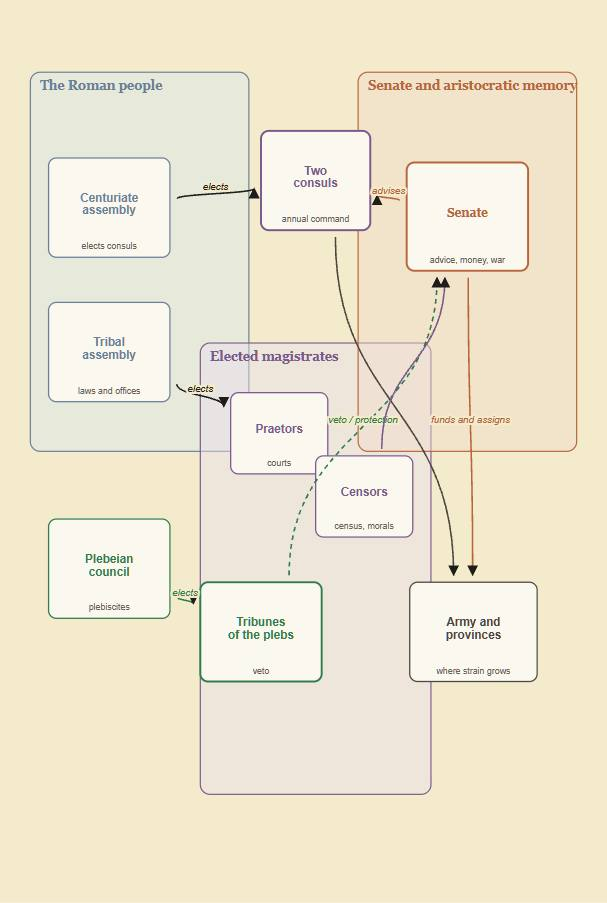
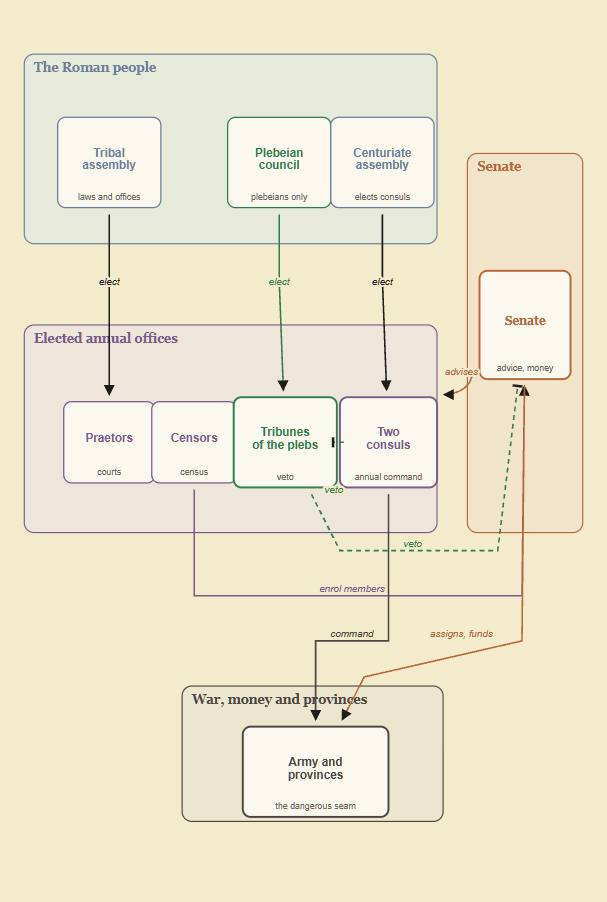
Refine Roman atlas plates
Copilot-Session: 37f2f47f-8b63-49cd-b8ce-cded564ac449

Changed region(s): [[0.0297, 0.0621, 0.9786, 0.9313]]

diff --git a/atlas/plates/rome-growth-small-multiples.js b/atlas/plates/rome-growth-small-multiples.js
@@ -1,27 +1,45 @@
-// Rome's growth as small multiples: one projection, four dated panels.
+// Rome's growth as small multiples: one Mediterranean projection, four dated panels.
 (function () {
-  const R = "#d66a4a", CORE = "#b9472f", ALLY = "#e6a45b", CONQ = "#c77b54", SEA = "#2f6a95";
-  const EXT = [[-12, 24], [48, 56]];
-  const ROME = [12.496, 41.902], CARTHAGE = [10.31, 36.85], ANTIOCH = [36.2, 36.2], ALEX = [29.92, 31.20], BYZ = [28.98, 41.01];
-  const italy = [[9.2, 44.2], [12.5, 43.7], [14.2, 41.0], [16.2, 40.0], [17.2, 40.5], [15.0, 42.5], [12.7, 42.8], [12.0, 41.8]];
-  const sicily = [[12.5, 38.0], [14.0, 38.2], [15.3, 37.3], [13.5, 36.8]];
-  const sardiniaCorsica = [[8.7, 41.8], [9.4, 40.1], [9.0, 39.1], [8.4, 40.7]];
-  const spainEast = [[-3.0, 42.5], [-1.0, 41.2], [-0.5, 39.5], [-1.2, 37.8], [-4.5, 36.7], [-5.2, 39.0]];
-  const spainAll = [[-8.8, 43.0], [-1.5, 42.5], [1.0, 40.0], [-1.2, 37.0], [-6.5, 36.3], [-8.7, 39.5]];
-  const africa = [[8.5, 37.0], [11.0, 36.8], [13.5, 35.8], [16.0, 34.5], [14.0, 33.2], [10.0, 34.2]];
-  const greece = [[19.0, 41.0], [22.5, 40.2], [24.5, 38.8], [23.0, 37.2], [20.0, 38.0]];
-  const asia = [[26.0, 40.5], [29.0, 40.0], [31.0, 38.3], [30.0, 36.5], [27.0, 37.0], [25.8, 39.0]];
-  const gaul = [[-1.0, 51.0], [3.5, 50.5], [7.7, 48.3], [7.0, 44.0], [3.5, 43.0], [0.0, 44.5], [-3.0, 47.5]];
-  const illyricum = [[13.0, 45.5], [17.0, 45.0], [19.5, 43.0], [18.0, 41.0], [14.5, 42.5]];
-  const syria = [[34.5, 37.0], [38.0, 36.5], [39.5, 34.0], [37.0, 32.0], [35.0, 33.5]];
-  const egypt = [[29.0, 31.5], [32.5, 31.0], [33.0, 29.0], [31.0, 27.5], [29.0, 29.0]];
-  const britain = [[-4.7, 55.2], [-1.0, 54.8], [0.5, 52.2], [-1.0, 50.5], [-4.3, 51.5]];
-  const danube = [[14.0, 48.2], [19.0, 47.2], [25.5, 45.0], [28.0, 44.0], [23.5, 43.3], [18.0, 44.5]];
-  const dacia = [[22.5, 44.0], [24.8, 46.5], [27.6, 46.6], [27.8, 44.5], [25.0, 43.6]];
-  const east117 = [[31.0, 40.0], [36.0, 39.0], [43.0, 37.5], [45.0, 33.5], [41.0, 31.5], [36.0, 34.0], [33.0, 36.0]];
-  const area = (id, polygon, colour, legend, extra = {}) => Object.assign({ id, type: "area", polygon, colour, opacity: 0.46, clipToLand: true, legend }, extra);
+  const HELD = "#e7a98f", NEW = "#c85038", CLIENT = "#f0bd6b", RIVAL = "#4f7f9f";
+  const EXT = [[-11.5, 27.5], [43.5, 47.5]];
+  const ROME = [12.496, 41.902], CARTHAGE = [10.31, 36.85], ALEX = [29.92, 31.20];
+  const area = (id, polygon, colour, legend, extra = {}) => Object.assign({ id, type: "area", polygon, colour, opacity: 0.52, clipToLand: true, legend }, extra);
+  const held = (id, polygon) => area(id, polygon, HELD, "Already Roman", { opacity: 0.36 });
+  const added = (id, polygon) => area(id, polygon, NEW, "Added since previous panel", { opacity: 0.62 });
+  const client = (id, polygon) => area(id, polygon, CLIENT, "Client or dependent realm", { pattern: "hatch", opacity: 0.78 });
+  const rival = (id, polygon) => area(id, polygon, RIVAL, "Carthaginian power, 264 BC", { pattern: "hatch", opacity: 0.60 });
   const city = (id, at, name, labelPos = "e") => ({ id, type: "point", symbol: id === "rome" ? "capital" : "large-city", at, name, labelPos });
-  const common = [city("rome", ROME, "Rome", "e")];
+
+  const italy = [[9.2,44.0],[11.8,44.2],[13.6,43.4],[14.4,42.0],[15.6,41.1],[17.2,40.2],[16.4,39.0],[15.5,38.0],[13.2,40.1],[12.0,41.2],[10.7,42.3]];
+  const sicily = [[12.2,38.4],[13.7,38.4],[15.5,37.4],[14.0,36.6],[12.4,37.1]];
+  const sardinia = [[8.1,41.4],[9.7,41.3],[9.9,39.0],[8.3,38.7]];
+  const corsica = [[8.5,43.1],[9.7,43.1],[9.6,41.6],[8.6,41.5]];
+  const africaProv = [[8.0,37.2],[11.5,37.0],[12.3,35.7],[10.0,34.4],[8.2,35.2]];
+  const africaCoast = [[-6.5,35.8],[-2.5,36.2],[2.0,36.8],[8.0,37.2],[14.5,36.3],[20.5,33.8],[25.5,32.2],[31.8,31.7],[33.5,29.8],[29.5,28.6],[20.0,30.0],[10.0,32.6],[2.0,34.1],[-5.5,34.5]];
+  const eastSpain = [[-1.8,42.7],[1.5,41.1],[0.2,38.5],[-1.2,37.3],[-4.0,37.1],[-5.1,39.1],[-3.6,41.0]];
+  const southSpain = [[-7.8,38.4],[-4.0,38.7],[-1.2,37.3],[-2.8,36.3],[-6.4,36.0],[-8.5,36.8]];
+  const allSpain = [[-9.5,43.3],[-1.4,42.9],[2.4,41.0],[0.0,38.3],[-3.8,36.1],[-8.8,36.3],[-9.8,39.5]];
+  const cisalpine = [[7.5,45.2],[10.5,45.5],[13.5,45.0],[13.6,43.8],[10.0,43.8],[7.8,44.3]];
+  const macedonAchaea = [[19.0,41.8],[22.5,41.4],[24.5,39.7],[24.1,37.4],[21.5,36.7],[19.2,38.5]];
+  const asiaPergamum = [[25.7,40.7],[29.5,40.5],[31.4,38.8],[30.5,36.6],[27.0,36.5],[25.2,38.6]];
+  const narbonensis = [[1.8,44.6],[6.9,44.6],[7.6,43.4],[5.0,42.6],[2.4,43.0]];
+  const gaul = [[-4.8,50.6],[1.5,51.1],[7.6,49.2],[7.7,44.1],[4.5,43.0],[-1.5,43.6],[-4.7,46.7]];
+  const illyricum = [[13.2,45.6],[18.2,45.2],[20.4,43.0],[19.2,41.0],[15.3,42.0],[13.4,44.0]];
+  const bithynia = [[29.2,41.5],[32.4,41.3],[32.4,39.8],[29.0,39.5]];
+  const cilicia = [[31.0,37.2],[35.2,37.0],[36.5,35.5],[33.0,35.2]];
+  const syria = [[34.5,36.8],[38.9,36.2],[39.4,32.2],[35.2,31.3],[34.2,33.6]];
+  const cyrenaica = [[19.0,33.0],[24.3,32.5],[24.5,30.0],[20.0,29.5],[18.5,31.0]];
+  const egypt = [[28.8,31.7],[32.8,31.5],[33.4,29.2],[31.2,27.8],[29.0,29.0]];
+  const balkansDanube = [[13.0,46.4],[20.0,46.2],[28.6,44.9],[29.2,42.8],[22.2,41.3],[17.0,42.2],[13.4,44.0]];
+  const anatolia = [[25.5,41.3],[32.0,41.2],[36.5,39.6],[36.6,36.4],[31.6,35.9],[26.4,36.7],[24.8,39.0]];
+  const judaeaArabia = [[34.4,32.5],[37.8,32.0],[39.8,29.5],[37.5,27.6],[34.6,29.5]];
+  const britain = [[-5.2,55.1],[-0.6,54.9],[1.2,52.0],[-1.0,50.5],[-4.8,51.2]];
+  const dacia = [[22.2,44.1],[24.7,46.6],[27.8,46.7],[28.2,44.6],[25.4,43.5]];
+  const mesopotamia = [[36.0,38.0],[42.8,37.5],[43.0,33.4],[39.2,31.4],[36.0,34.0]];
+  const punicAfrica = [[-2.0,36.0],[3.5,36.7],[10.8,37.1],[13.0,35.7],[10.0,33.9],[4.0,34.2],[-1.8,34.8]];
+  const punicIberia = [[-6.8,38.2],[-1.0,38.5],[0.0,37.0],[-3.5,36.0],[-6.8,36.2]];
+  const westSicily = [[12.0,38.3],[13.4,38.2],[13.3,37.0],[12.2,37.0]];
+
   window.PLATES["rome-growth-small-multiples"] = {
     id: "rome-growth-small-multiples",
     title: "Rome's growth from city-state to empire",
@@ -29,53 +47,35 @@
     folio: "13",
     viewer: "ancient/-0050/ch-rome",
     figures: [
-      { kind: "small-multiples", caption: "The same Mediterranean frame at four dates", share: 1, extent: EXT, projection: "mercator", columns: 2, panelAspect: 0.9,
-        legend: { position: "bottom-left", columns: 2 }, layers: common,
+      { kind: "small-multiples", caption: "A Mediterranean empire, panel by panel", share: 1, extent: EXT, projection: "mercator", columns: 2, panelAspect: 1.25,
+        legend: { position: "bottom-left", columns: 2 }, layers: [city("rome", ROME, "Rome", "e")],
         panels: [
           { caption: "264 BC", layers: [
-            area("it-264", italy, CORE, "Roman citizen land and allies", { pattern: "hatch", opacity: 0.55 }),
-            area("sicily-264", sicily, ALLY, "War zone and allied cities", { pattern: "dots", opacity: 0.5 }),
+            added("it-264", italy),
+            rival("punic-africa-264", punicAfrica), rival("punic-sardinia-264", sardinia), rival("punic-corsica-264", corsica), rival("punic-sicily-264", westSicily), rival("punic-spain-264", punicIberia),
             city("carthage-264", CARTHAGE, "Carthage", "w")
           ] },
           { caption: "133 BC", layers: [
-            area("it-133", italy, CORE, "Old Roman-Italian core", { opacity: 0.62 }),
-            area("sicily-133", sicily, CONQ, "First overseas provinces", { pattern: "hatch" }),
-            area("sardinia-133", sardiniaCorsica, CONQ, "First overseas provinces", { pattern: "hatch" }),
-            area("spain-133", spainEast, CONQ, "Provinces and client zones", { pattern: "stripe" }),
-            area("africa-133", africa, CONQ, "Provinces and client zones", { pattern: "stripe" }),
-            area("greece-133", greece, CONQ, "Provinces and client zones", { pattern: "stripe" }),
-            area("asia-133", asia, ALLY, "Pergamum bequest, 133 BC", { pattern: "dots" })
+            held("it-133", italy),
+            added("sicily-133", sicily), added("sardinia-133", sardinia), added("corsica-133", corsica), added("citerior-133", eastSpain), added("ulterior-133", southSpain), added("africa-133", africaProv), added("cisalpine-133", cisalpine), added("macedonia-achaea-133", macedonAchaea), added("asia-133", asiaPergamum)
           ] },
           { caption: "44 BC", layers: [
-            area("italy-44", italy, CORE, "Italy and older provinces", { opacity: 0.62 }),
-            area("spain-44", spainAll, CONQ, "Republican provinces", { pattern: "hatch" }),
-            area("gaul-44", gaul, R, "Caesar's conquest of Gaul", { pattern: "stripe", opacity: 0.54 }),
-            area("illyricum-44", illyricum, CONQ, "Republican provinces", { pattern: "hatch" }),
-            area("greece-44", greece, CONQ, "Republican provinces", { pattern: "hatch" }),
-            area("asia-44", asia, CONQ, "Republican provinces", { pattern: "hatch" }),
-            area("syria-44", syria, CONQ, "Eastern provinces", { pattern: "hatch" }),
-            area("africa-44", africa, CONQ, "Republican provinces", { pattern: "hatch" }),
-            city("alex-44", ALEX, "Alexandria", "w")
+            held("it-44", italy), held("islands-44a", sicily), held("islands-44b", sardinia), held("islands-44c", corsica), held("spain-old-44a", eastSpain), held("spain-old-44b", southSpain), held("africa-old-44", africaProv), held("cisalpine-44", cisalpine), held("greece-old-44", macedonAchaea), held("asia-old-44", asiaPergamum),
+            added("narbonensis-44", narbonensis), added("gaul-44", gaul), added("illyricum-44", illyricum), added("bithynia-44", bithynia), added("cilicia-44", cilicia), added("syria-44", syria), added("cyrenaica-44", cyrenaica),
+            client("egypt-client-44", egypt), city("alexandria-44", ALEX, "Alexandria", "w")
           ] },
           { caption: "AD 117", layers: [
-            area("empire-117-west", [...spainAll, ...gaul, ...italy], R, "Empire under Trajan", { opacity: 0.42 }),
-            area("britain-117", britain, R, "Empire under Trajan", { opacity: 0.42 }),
-            area("africa-117", africa, R, "Empire under Trajan", { opacity: 0.42 }),
-            area("danube-117", danube, R, "Empire under Trajan", { opacity: 0.42 }),
-            area("dacia-117", dacia, ALLY, "Recent conquests", { pattern: "stripe" }),
-            area("east-117", east117, ALLY, "Recent conquests", { pattern: "stripe" }),
-            area("egypt-117", egypt, R, "Empire under Trajan", { opacity: 0.42 }),
-            { id: "byzantium-117", type: "point", symbol: "large-city", at: BYZ },
-            { id: "antioch-117", type: "point", symbol: "large-city", at: ANTIOCH }
+            held("spain-117", allSpain), held("gaul-117", gaul), held("narbonensis-117", narbonensis), held("italy-117", italy), held("sicily-117", sicily), held("sardinia-117", sardinia), held("corsica-117", corsica), held("africa-117", africaCoast), held("balkans-117", balkansDanube), held("greece-117", macedonAchaea), held("anatolia-117", anatolia), held("syria-117", syria), held("judaea-arabia-117", judaeaArabia), held("egypt-117", egypt),
+            added("britain-117", britain), added("dacia-117", dacia), added("mesopotamia-117", mesopotamia)
           ] }
         ] }
     ],
-    text: { intro: "Small multiples keep the coastline and scale steady, so the eye sees change rather than a new map each time. Rome starts as an Italian power, then adds islands, provinces, Gaul, Egypt and the frontier arc of the high empire.", sections: [
+    text: { intro: "Small multiples keep the coastline and scale steady, so the eye sees change rather than a new map each time. Pale red is what Rome already held; dark red is what is new since the previous panel.", sections: [
       { heading: "Four steps", entries: [
-        { date: "264 BC", text: "On the eve of the Punic Wars, Rome controlled Italy through citizen land, colonies and allies, but the sea still belonged to older powers such as Carthage.", refs: ["it-264", "sicily-264", "carthage-264", "rome"] },
-        { date: "133 BC", text: "Victories over Carthage and the Hellenistic kingdoms turned Sicily, Sardinia-Corsica, Spain, Africa, Macedonia-Greece and Asia into provincial problems.", refs: ["it-133", "sicily-133", "sardinia-133", "spain-133", "africa-133", "greece-133", "asia-133"] },
-        { date: "44 BC", text: "By Caesar's death the Republic held a Mediterranean ring, including Gaul and Syria. The scale of command helped break republican politics.", refs: ["italy-44", "spain-44", "gaul-44", "illyricum-44", "greece-44", "asia-44", "syria-44", "africa-44", "alex-44"] },
-        { date: "AD 117", text: "Trajan's reign shows the empire at its widest: Britain, the Rhine-Danube frontier, Dacia, Egypt and the temporary eastern conquests all in one system.", refs: ["empire-117-west", "britain-117", "africa-117", "danube-117", "dacia-117", "east-117", "egypt-117", "byzantium-117", "antioch-117"] }
+        { date: "264 BC", text: "Rome controls peninsular Italy south of the Arno-Rubicon line. Carthage is the rival sea power, with territory on the North African coast, western Sicily, Sardinia-Corsica and the southern Spanish coast.", refs: ["it-264", "punic-africa-264", "punic-sardinia-264", "punic-corsica-264", "punic-sicily-264", "punic-spain-264", "rome", "carthage-264"] },
+        { date: "133 BC", text: "After the Punic and Macedonian wars, Rome has Sicily, Sardinia-Corsica, Hispania Citerior and Ulterior, Africa, Cisalpine Gaul, Macedonia-Achaea and Asia from Pergamum.", refs: ["it-133", "sicily-133", "sardinia-133", "corsica-133", "citerior-133", "ulterior-133", "africa-133", "cisalpine-133", "macedonia-achaea-133", "asia-133"] },
+        { date: "44 BC", text: "By Caesar's death, older provinces surround the western and central Mediterranean. Newer republican gains add Narbonensis, all Gaul, Illyricum, Bithynia, Cilicia, Syria and Cyrenaica, while Egypt remains a dependent kingdom.", refs: ["it-44", "islands-44a", "islands-44b", "islands-44c", "spain-old-44a", "spain-old-44b", "africa-old-44", "cisalpine-44", "greece-old-44", "asia-old-44", "narbonensis-44", "gaul-44", "illyricum-44", "bithynia-44", "cilicia-44", "syria-44", "cyrenaica-44", "egypt-client-44", "alexandria-44"] },
+        { date: "AD 117", text: "At Trajan's peak, the empire rings the Mediterranean: Spain, Gaul, Italy, the islands, North Africa from Morocco to Egypt, Greece, the Balkans, Anatolia, Syria and Judaea. Britain, Dacia and Mesopotamia mark the outer push.", refs: ["spain-117", "gaul-117", "narbonensis-117", "italy-117", "sicily-117", "sardinia-117", "corsica-117", "africa-117", "balkans-117", "greece-117", "anatolia-117", "syria-117", "judaea-arabia-117", "egypt-117", "britain-117", "dacia-117", "mesopotamia-117"] }
       ] }
     ] },
     sources: ["Conventional Roman territorial chronology; shapes are atlas-style approximations", "Coastlines and rivers: Natural Earth 1:50m"]

diff --git a/atlas/plates/roman-republic-constitution.js b/atlas/plates/roman-republic-constitution.js
@@ -10,42 +10,45 @@
     figures: [
       { kind: "diagram", caption: "Offices, assemblies and vetoes in the middle Republic", share: 1, diagram: {
         compartments: [
-          { id: "people-frame", label: "The Roman people", x: 0.05, y: 0.08, w: 0.36, h: 0.42, colour: POP, fill: "#dbe7ef" },
-          { id: "magistrate-frame", label: "Elected magistrates", x: 0.33, y: 0.38, w: 0.38, h: 0.50, colour: MAG, fill: "#e9dfef" },
-          { id: "senate-frame", label: "Senate and aristocratic memory", x: 0.59, y: 0.08, w: 0.36, h: 0.42, colour: SEN, fill: "#f0dccb" }
+          { id: "people-frame", label: "The Roman people", x: 0.04, y: 0.06, w: 0.68, h: 0.21, colour: POP, fill: "#dbe7ef" },
+          { id: "magistrate-frame", label: "Elected annual offices", x: 0.04, y: 0.36, w: 0.68, h: 0.23, colour: MAG, fill: "#e9dfef" },
+          { id: "senate-frame", label: "Senate", x: 0.77, y: 0.17, w: 0.19, h: 0.42, colour: SEN, fill: "#f0dccb" },
+          { id: "province-frame", label: "War, money and provinces", x: 0.30, y: 0.76, w: 0.43, h: 0.15, colour: ARMY, fill: "#e6e0d6" }
         ],
         nodes: [
-          { id: "centuriate", label: "Centuriate\nassembly", x: 0.18, y: 0.23, w: 0.20, h: 0.11, colour: POP, note: "elects consuls" },
-          { id: "tribal", label: "Tribal\nassembly", x: 0.18, y: 0.39, w: 0.20, h: 0.11, colour: POP, note: "laws and offices" },
-          { id: "plebeian", label: "Plebeian\ncouncil", x: 0.18, y: 0.63, w: 0.20, h: 0.11, colour: TR, note: "plebiscites" },
-          { id: "consuls", label: "Two\nconsuls", x: 0.52, y: 0.20, w: 0.18, h: 0.11, colour: MAG, strong: true, note: "annual command" },
-          { id: "praetors", label: "Praetors", x: 0.46, y: 0.48, w: 0.16, h: 0.09, colour: MAG, note: "courts" },
-          { id: "censors", label: "Censors", x: 0.60, y: 0.55, w: 0.16, h: 0.09, colour: MAG, note: "census, morals" },
-          { id: "tribunes", label: "Tribunes\nof the plebs", x: 0.43, y: 0.70, w: 0.20, h: 0.11, colour: TR, strong: true, note: "veto" },
-          { id: "senate", label: "Senate", x: 0.77, y: 0.24, w: 0.20, h: 0.12, colour: SEN, strong: true, serif: true, note: "advice, money, war" },
-          { id: "army", label: "Army and\nprovinces", x: 0.78, y: 0.70, w: 0.21, h: 0.11, colour: ARMY, note: "where strain grows" }
+          { id: "tribal", label: "Tribal\nassembly", x: 0.18, y: 0.18, w: 0.17, h: 0.10, colour: POP, note: "laws and offices" },
+          { id: "plebeian", label: "Plebeian\ncouncil", x: 0.46, y: 0.18, w: 0.17, h: 0.10, colour: TR, note: "plebeians only" },
+          { id: "centuriate", label: "Centuriate\nassembly", x: 0.63, y: 0.18, w: 0.17, h: 0.10, colour: POP, note: "elects consuls" },
+          { id: "praetors", label: "Praetors", x: 0.18, y: 0.49, w: 0.15, h: 0.09, colour: MAG, note: "courts" },
+          { id: "censors", label: "Censors", x: 0.32, y: 0.49, w: 0.14, h: 0.09, colour: MAG, note: "census" },
+          { id: "tribunes", label: "Tribunes\nof the plebs", x: 0.47, y: 0.49, w: 0.17, h: 0.10, colour: TR, strong: true, note: "veto" },
+          { id: "consuls", label: "Two\nconsuls", x: 0.64, y: 0.49, w: 0.16, h: 0.10, colour: MAG, strong: true, note: "annual command" },
+          { id: "senate", label: "Senate", x: 0.865, y: 0.36, w: 0.15, h: 0.12, colour: SEN, strong: true, serif: true, note: "advice, money" },
+          { id: "army", label: "Army and\nprovinces", x: 0.52, y: 0.855, w: 0.24, h: 0.10, colour: ARMY, strong: true, note: "the dangerous seam" }
         ],
         arrows: [
-          { id: "elect-consuls", from: "centuriate", to: "consuls", label: "elects" },
-          { id: "elect-praetors", from: "tribal", to: "praetors", label: "elects" },
-          { id: "elect-tribunes", from: "plebeian", to: "tribunes", label: "elects", colour: TR },
-          { id: "senate-advises", from: "senate", to: "consuls", label: "advises", colour: SEN },
-          { id: "money-war", from: "senate", to: "army", label: "funds and assigns", colour: SEN },
-          { id: "commands-army", from: "consuls", to: "army", colour: ARMY },
-          { id: "veto", from: "tribunes", to: "senate", label: "veto / protection", colour: TR, dashed: true },
-          { id: "censors-senate", from: "censors", to: "senate", colour: MAG }
+          { id: "elect-praetors", from: "tribal", to: "praetors", label: "elect", via: [[0.18,0.31]], labelAt: [0.18,0.32] },
+          { id: "elect-tribunes", from: "plebeian", to: "tribunes", label: "elect", colour: TR, via: [[0.46,0.31]], labelAt: [0.46,0.32] },
+          { id: "elect-consuls", from: "centuriate", to: "consuls", label: "elect", via: [[0.63,0.31]], labelAt: [0.63,0.32] },
+          { id: "senate-advises", from: "senate", to: "consuls", label: "advises", colour: SEN, labelAt: [0.76,0.42] },
+          { id: "veto-consuls", from: "tribunes", to: "consuls", label: "veto", colour: TR, dashed: true, end: "bar", labelAt: [0.55,0.55] },
+          { id: "veto-senate", from: "tribunes", to: "senate", label: "veto", colour: TR, dashed: true, end: "bar", via: [[0.56,0.61],[0.82,0.61]], labelAt: [0.68,0.61] },
+          { id: "censors-senate", from: "censors", to: "senate", label: "enrol members", colour: MAG, via: [[0.32,0.66],[0.86,0.66]], labelAt: [0.58,0.66] },
+          { id: "commands-army", from: "consuls", to: "army", label: "command", colour: ARMY, via: [[0.64,0.71],[0.52,0.71]], labelAt: [0.58,0.71] },
+          { id: "money-war", from: "senate", to: "army", label: "assigns, funds", colour: SEN, via: [[0.86,0.71],[0.60,0.75]], labelAt: [0.76,0.71] }
         ]
+
       } }
     ],
     text: { intro: "The Republic did not have a written constitution in the modern Canadian sense. It was a machine of annual offices, assemblies, aristocratic advice, religious habit and veto points. The same balances that prevented kingship also made fast reform hard.", sections: [
       { heading: "Checks without a constitution", entries: [
         { date: "509-287 BC", text: "Roman memory made kingship poisonous. Power was split between annual magistrates, citizen assemblies and the Senate's accumulated authority.", refs: ["people-frame", "magistrate-frame", "senate-frame"] },
-        { text: "Two consuls held command for one year. Each could block the other, and both depended on assemblies for election and the Senate for money, provinces and prestige.", refs: ["centuriate", "consuls", "senate-advises", "money-war"] },
-        { text: "Tribunes protected plebeians and could veto magistrates or Senate business. That made them a safety valve, but also a tool for crisis politics.", refs: ["plebeian", "tribunes", "veto"] }
+        { text: "Two consuls held command for one year. Each could block the other, and both depended on assemblies for election and the Senate for money, provinces and prestige.", refs: ["centuriate", "consuls", "elect-consuls", "senate-advises", "money-war"] },
+        { text: "Tribunes protected plebeians and could veto magistrates or Senate business. That made them a safety valve, but also a tool for crisis politics.", refs: ["plebeian", "tribunes", "elect-tribunes", "veto-consuls", "veto-senate"] }
       ] },
       { heading: "Why it mattered by 133 BC", entries: [
-        { date: "133 BC", text: "Tiberius Gracchus tried to use the people's assembly and a tribune's office against senatorial resistance. The machine could not absorb the shock peacefully.", refs: ["tribal", "tribunes", "senate"] },
-        { text: "Long wars and provincial commands gave magistrates armies, money and clients far from Rome. The army-and-province box became the weak seam of the Republic.", refs: ["army", "commands-army"] }
+        { date: "133 BC", text: "Tiberius Gracchus tried to use the people's assembly and a tribune's office against senatorial resistance. The machine could not absorb the shock peacefully.", refs: ["tribal", "elect-praetors", "tribunes", "senate"] },
+        { text: "Long wars and provincial commands gave magistrates armies, money and clients far from Rome. The army-and-province box became the weak seam of the Republic.", refs: ["province-frame", "army", "commands-army", "censors-senate"] }
       ] }
     ] },
     sources: ["General Roman constitutional history", "Institution diagram based on the atlas's framed explanatory diagrams"]

diff --git a/atlas/js/plate.js b/atlas/js/plate.js
@@ -173,6 +173,9 @@ function drawDiagramFigure(container, fig, fi, w, h) {
   defs.append("marker").attr("id", `diag-head-${fi}`).attr("viewBox", "0 0 10 10").attr("refX", 9).attr("refY", 5)
     .attr("markerWidth", 7).attr("markerHeight", 7).attr("orient", "auto-start-reverse")
     .append("path").attr("d", "M0,0L10,5L0,10Z").attr("fill", INK);
+  defs.append("marker").attr("id", `diag-bar-${fi}`).attr("viewBox", "0 0 10 10").attr("refX", 5).attr("refY", 5)
+    .attr("markerWidth", 8).attr("markerHeight", 8).attr("orient", "auto")
+    .append("path").attr("d", "M5,1L5,9").attr("stroke", INK).attr("stroke-width", 2);
   svg.append("rect").attr("width", w).attr("height", h).attr("fill", LAND);
   const d = fig.diagram || {};
   const sx = (x) => x * w, sy = (y) => y * h;
@@ -207,12 +210,18 @@ function drawDiagramFigure(container, fig, fi, w, h) {
   for (const a of d.arrows || []) {
     const A = byId.get(a.from), B = byId.get(a.to);
     if (!A || !B) continue;
-    const p = edge(A, B), q = edge(B, A), mid = [(p[0] + q[0]) / 2, (p[1] + q[1]) / 2];
+    const route = (a.via || []).map((p) => ({ x: p[0], y: p[1] }));
+    const first = route[0] || B, last = route[route.length - 1] || A;
+    const p = edge(A, first), q = edge(B, last);
+    const pts = [p, ...route.map((v) => [sx(v.x), sy(v.y)]), q];
+    const mid = pts[Math.floor(pts.length / 2)];
     const g = layer.append("g").attr("class", "layer diagram-arrow").attr("data-layer", a.id || null);
-    g.append("path").attr("d", `M${p[0]},${p[1]}C${p[0]},${mid[1]} ${q[0]},${mid[1]} ${q[0]},${q[1]}`)
+    const dPath = route.length ? d3.line().curve(d3.curveLinear)(pts) : `M${p[0]},${p[1]}C${p[0]},${mid[1]} ${q[0]},${mid[1]} ${q[0]},${q[1]}`;
+    g.append("path").attr("d", dPath)
       .attr("fill", "none").attr("stroke", a.colour || INK).attr("stroke-width", a.width || 1.6)
-      .attr("stroke-dasharray", a.dashed ? "5 4" : null).attr("marker-end", `url(#diag-head-${fi})`);
-    if (a.label) haloText(g.append("text").attr("x", mid[0]).attr("y", mid[1] - 4).attr("text-anchor", "middle")
+      .attr("stroke-dasharray", a.dashed ? "5 4" : null).attr("marker-end", `url(#${a.end === "bar" ? "diag-bar" : "diag-head"}-${fi})`);
+    const labelAt = a.labelAt ? [sx(a.labelAt[0]), sy(a.labelAt[1])] : mid;
+    if (a.label) haloText(g.append("text").attr("x", labelAt[0]).attr("y", labelAt[1] - 4).attr("text-anchor", "middle")
       .attr("font-size", 10).attr("font-style", "italic").attr("fill", a.colour || INK).text(a.label), LAND, 4);
   }
   return svg.node();
